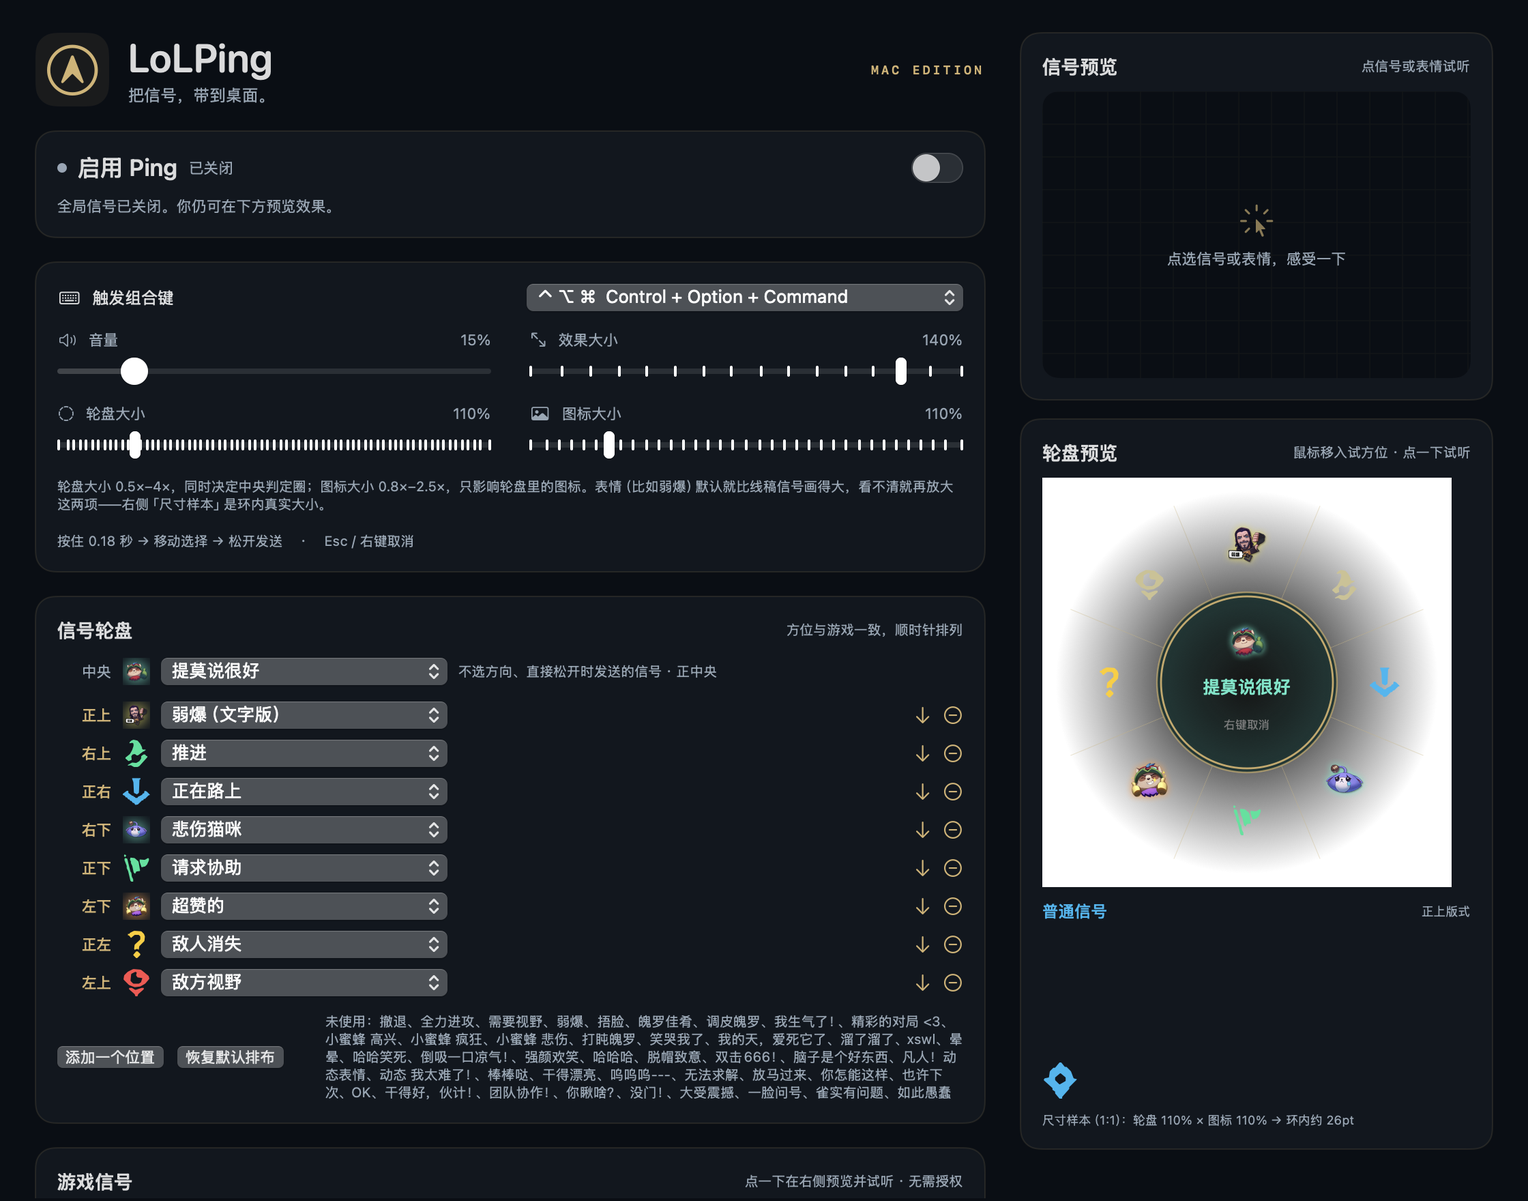
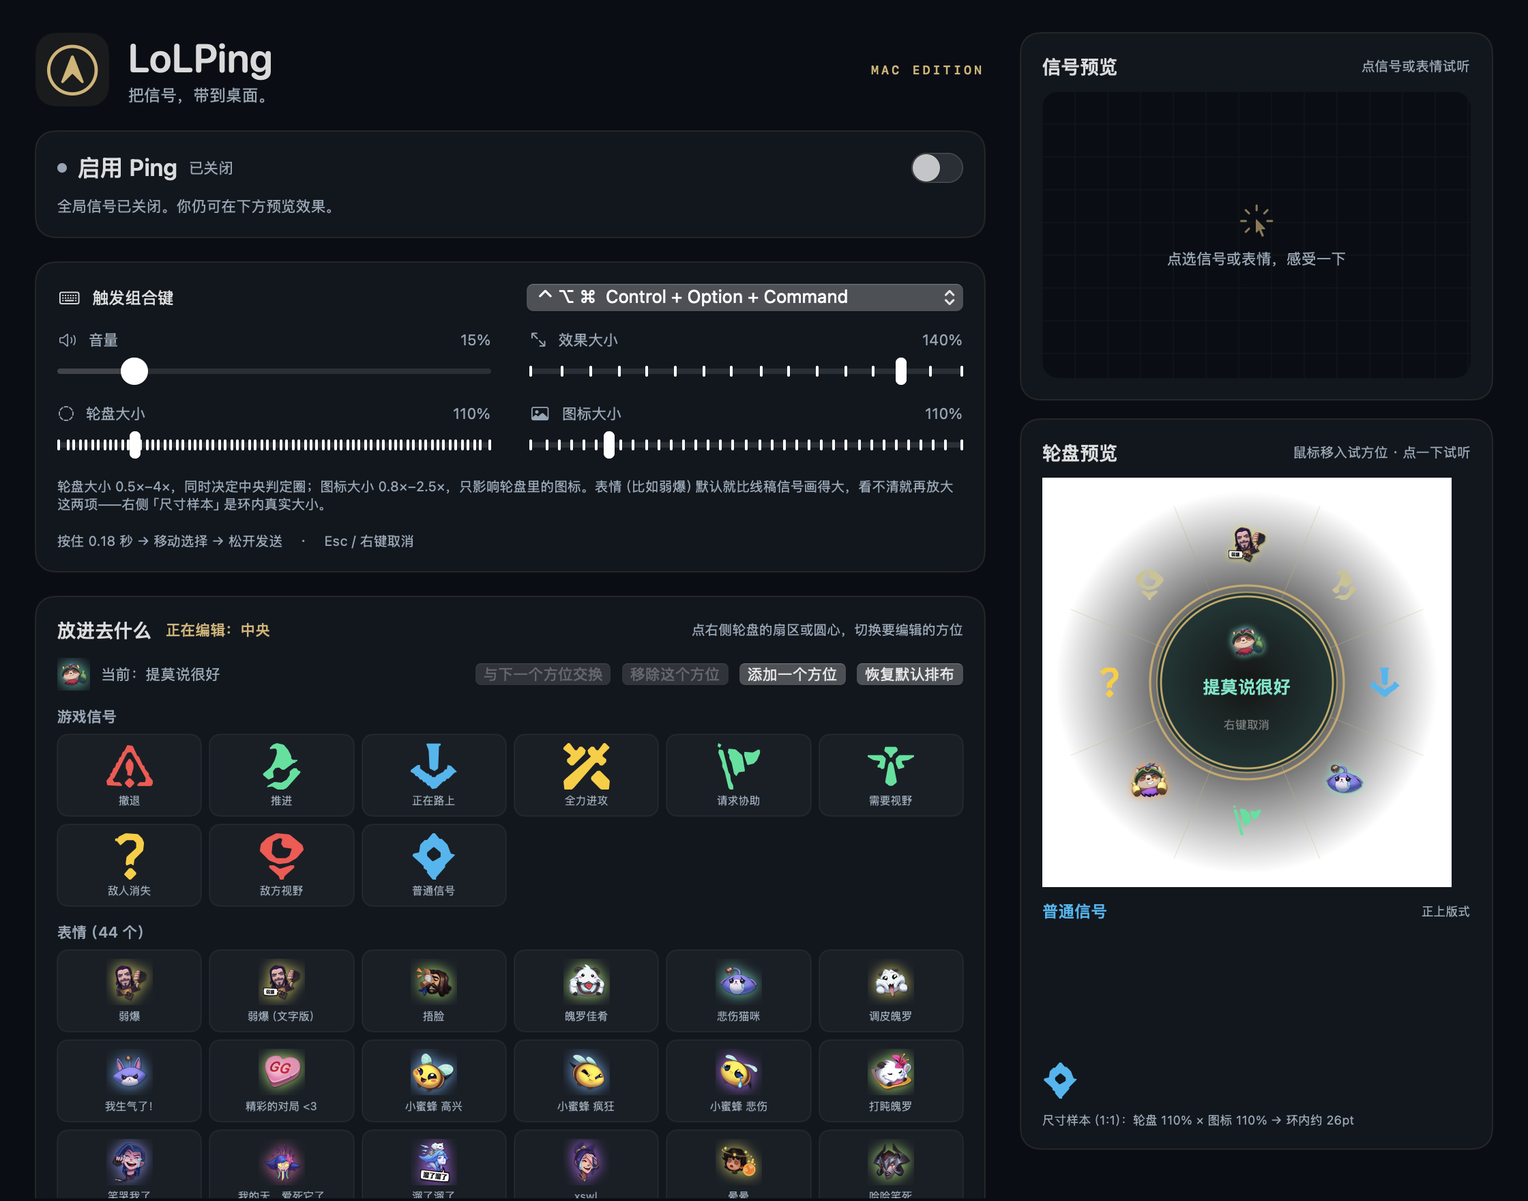
Make ring editing an explicit mode, with in-app guidance
- view mode is the default: clicking a signal, an emote or a wheel slot only
  auditions (animation + sound) and never writes the configuration
- '自定义轮盘' enters edit mode (title, gold hints, per-slot actions, focused tile
  border, gold halo on the ring); '结束编辑' leaves it
- a permanent 怎么用 card explains trigger, auditioning and how to enter/exit edit
- visual check snapshots both modes (settings-window-retina.png and
  settings-window-editing-retina.png) so the difference is reviewable

diff --git a/Sources/LoLPing/ControlView.swift b/Sources/LoLPing/ControlView.swift
@@ -11,14 +11,24 @@ private enum Palette {
 
 struct ControlView: View {
     @ObservedObject var model: AppModel
+    /// Only the offscreen self-check passes anything else; the app always opens in
+    /// view mode, where clicks audition instead of editing.
+    init(model: AppModel, startEditing: Bool = false) {
+        self.model = model
+        _isEditing = State(initialValue: startEditing)
+    }
     @State private var pointed: PingKind = .generic
-    @State private var editing: WheelEditTarget = .hub
+    /// Editing is opt-in: outside it, clicking only previews, never rewrites the
+    /// ring, so browsing signals can never change the configuration by accident.
+    @State private var isEditing = false
+    @State private var editTarget: WheelEditTarget = .hub
     var body: some View {
         HStack(alignment: .top, spacing: 0) {
             ScrollView {
                 VStack(alignment: .leading, spacing: 18) {
                     header
                     statusCard
+                    guideCard
                     settingsCard
                     paletteCard
                     footer
@@ -78,12 +88,13 @@ struct ControlView: View {
             HStack {
                 Text("轮盘预览").font(.system(size: 14, weight: .semibold))
                 Spacer()
-                Text("鼠标移入试方位 · 点一下试听").font(.system(size: 10)).foregroundStyle(Palette.secondary)
+                Text(isEditing ? "点扇区或圆心 = 选中要编辑的位置" : "点一下只试听 · 不改配置")
+                    .font(.system(size: 10)).foregroundStyle(isEditing ? Palette.gold : Palette.secondary)
             }
-            WheelPreview(order: model.wheelOrder, centreSignal: model.centreSignal, focus: editing) { target in
-                editing = target
-                model.preview(target == .hub ? model.centreSignal
-                                             : (model.wheelOrder.indices.contains(target.ringIndex) ? model.wheelOrder[target.ringIndex] : model.centreSignal))
+            WheelPreview(order: model.wheelOrder, centreSignal: model.centreSignal,
+                         focus: isEditing ? editTarget : nil) { target in
+                if isEditing { editTarget = target }
+                model.preview(signal(at: target))
             } onHover: { kind in
                 pointed = kind
             }
@@ -125,6 +136,17 @@ struct ControlView: View {
             Text("MAC EDITION").font(.system(size: 9, weight: .semibold, design: .monospaced))
                 .tracking(2).foregroundStyle(Palette.gold)
         }
+    }
+    private var guideCard: some View {
+        VStack(alignment: .leading, spacing: 6) {
+            Text("怎么用").font(.system(size: 12, weight: .semibold)).foregroundStyle(Palette.gold)
+            Text("1 · 按住 \(model.chord.symbols) 约 0.18 秒 → 移动鼠标选信号 → 松开任意一键发送（不选方向、直接松开就是「中央」那个信号）。")
+            Text("2 · 左边点任意信号或表情 = 试听并看落点动画，**不会**改动配置。右边圆盘也可以点，同样是试听。")
+            Text("3 · 想改轮盘排布：点「自定义轮盘」→ 点右边圆盘的方位（或圆心）→ 点左边格子放入 → 点「结束编辑」。")
+        }
+        .font(.system(size: 10)).foregroundStyle(Palette.secondary)
+        .fixedSize(horizontal: false, vertical: true)
+        .padding(14).card()
     }
     private var statusCard: some View {
         VStack(alignment: .leading, spacing: 10) {
@@ -209,88 +231,111 @@ struct ControlView: View {
     private var paletteCard: some View {
         VStack(alignment: .leading, spacing: 12) {
             HStack(spacing: 10) {
-                Text("放进去什么").font(.system(size: 14, weight: .semibold))
-                Text("正在编辑：\(focusedName)").font(.system(size: 11, weight: .medium)).foregroundStyle(Palette.gold)
-                Spacer()
-                Text("点右侧轮盘的扇区或圆心，切换要编辑的方位").font(.system(size: 10)).foregroundStyle(Palette.secondary)
-            }
-            HStack(spacing: 8) {
-                if let icon = Assets.icon(focusedSignal) {
-                    Image(nsImage: icon).resizable().interpolation(.high).frame(width: 24, height: 24)
+                Text(isEditing ? "自定义轮盘" : "试听信号与表情").font(.system(size: 14, weight: .semibold))
+                if isEditing {
+                    Text("正在编辑：\(focusedName)").font(.system(size: 11, weight: .medium)).foregroundStyle(Palette.gold)
                 }
-                Text("当前：\(focusedSignal.title)").font(.system(size: 11)).foregroundStyle(Palette.secondary)
                 Spacer()
-                Button("与下一个方位交换") { swapFocusedForward() }
-                    .buttonStyle(.bordered).controlSize(.small).disabled(editing == .hub)
-                Button("移除这个方位") { removeFocused() }
-                    .buttonStyle(.bordered).controlSize(.small)
-                    .disabled(editing == .hub || model.wheelOrder.count <= AppModel.minWheelSlots)
-                Button("添加一个方位") { model.addWheelSlot() }
-                    .buttonStyle(.bordered).controlSize(.small).disabled(model.unusedSignals.isEmpty)
-                Button("恢复默认排布") { model.resetWheelOrder() }.buttonStyle(.bordered).controlSize(.small)
+                if isEditing {
+                    Button("结束编辑") { isEditing = false }
+                        .buttonStyle(.borderedProminent).controlSize(.small)
+                        .help("退出编辑：之后点击只试听，不再改动配置")
+                    Button("恢复默认排布") { model.resetWheelOrder() }.buttonStyle(.bordered).controlSize(.small)
+                } else {
+                    Button {
+                        isEditing = true
+                    } label: {
+                        Label("自定义轮盘", systemImage: "slider.horizontal.3")
+                    }
+                    .buttonStyle(.borderedProminent).controlSize(.small)
+                    .help("进入编辑：点方位选位置，点格子放入信号或表情")
+                }
+            }
+            if isEditing {
+                HStack(spacing: 8) {
+                    if let icon = Assets.icon(focusedSignal) {
+                        Image(nsImage: icon).resizable().interpolation(.high).frame(width: 22, height: 22)
+                    }
+                    Text("\(focusedName) 当前：\(focusedSignal.title)").font(.system(size: 11)).foregroundStyle(Palette.secondary)
+                    Spacer(minLength: 0)
+                    Button("与下一个方位交换") { swapFocusedForward() }
+                        .buttonStyle(.bordered).controlSize(.small).disabled(editTarget == .hub)
+                    Button("移除这个方位") { removeFocused() }
+                        .buttonStyle(.bordered).controlSize(.small)
+                        .disabled(editTarget == .hub || model.wheelOrder.count <= AppModel.minWheelSlots)
+                    Button("添加一个方位") { model.addWheelSlot() }
+                        .buttonStyle(.bordered).controlSize(.small).disabled(model.unusedSignals.isEmpty)
+                }
+                Text("编辑中：点右边圆盘的扇区或圆心切换位置，再点下面的格子放入；点「结束编辑」收工。")
+                    .font(.system(size: 10)).foregroundStyle(Palette.gold.opacity(0.85))
+            } else {
+                Text("下面是全部 \(PingKind.ring.count) 个可选信号：点一下只试听（放动画 + 出声），不会改动配置。要改轮盘排布请点右上角「自定义轮盘」。")
+                    .font(.system(size: 10)).foregroundStyle(Palette.secondary)
             }
             tileRow("游戏信号", kinds: PingKind.alerts + [PingKind.generic])
             tileRow("表情（\(PingKind.emotes.count) 个）", kinds: PingKind.emotes)
-            Text("共 \(model.wheelOrder.count) 个方位（最少 \(AppModel.minWheelSlots) 个）· 缩略图就是放进去的样子，点一下即放入并试听")
-                .font(.system(size: 10)).foregroundStyle(Palette.secondary)
         }.padding(16).card()
     }
 
+    /// Only while editing does a tile show "this is what the focused slot holds".
+    private func highlighted(_ kind: PingKind) -> Bool { isEditing && kind == focusedSignal }
     private func tileRow(_ title: String, kinds: [PingKind]) -> some View {
         VStack(alignment: .leading, spacing: 6) {
             Text(title).font(.system(size: 11, weight: .semibold)).foregroundStyle(Palette.secondary)
             LazyVGrid(columns: Array(repeating: GridItem(.flexible(), spacing: 6), count: 6), spacing: 6) {
                 ForEach(kinds) { kind in
-                    Button { assign(kind) } label: {
+                    Button { choose(kind) } label: {
                         VStack(spacing: 3) {
                             if let icon = Assets.icon(kind) {
                                 Image(nsImage: icon).resizable().interpolation(.high).frame(width: 34, height: 34)
                             }
                             Text(kind.title).font(.system(size: 8)).lineLimit(1)
-                                .foregroundStyle(kind == focusedSignal ? Palette.gold : Palette.secondary)
+                                .foregroundStyle(highlighted(kind) ? Palette.gold : Palette.secondary)
                         }
                         .frame(maxWidth: .infinity).frame(height: 60)
-                        .background(kind == focusedSignal ? Palette.gold.opacity(0.16) : Color.white.opacity(0.035),
+                        .background(highlighted(kind) ? Palette.gold.opacity(0.16) : Color.white.opacity(0.035),
                                     in: RoundedRectangle(cornerRadius: 8))
-                        .overlay(RoundedRectangle(cornerRadius: 8).stroke(kind == focusedSignal ? Palette.gold.opacity(0.7) : Color.white.opacity(0.05), lineWidth: 1))
+                        .overlay(RoundedRectangle(cornerRadius: 8).stroke(highlighted(kind) ? Palette.gold.opacity(0.7) : Color.white.opacity(0.05), lineWidth: 1))
                         .contentShape(Rectangle())
                     }
                     .buttonStyle(.plain)
                     .help(kind.title)
-                    .accessibilityLabel("把\(kind.title)放入\(focusedName)")
+                    .accessibilityLabel(isEditing ? "把\(kind.title)放入\(focusedName)" : "试听\(kind.title)")
                 }
             }
         }
     }
 
     private var focusedName: String {
-        switch editing {
+        switch editTarget {
         case .hub: return "中央"
         case .ring(let index): return compassLabel(index)
         }
     }
-    private var focusedSignal: PingKind {
-        switch editing {
+    private var focusedSignal: PingKind { signal(at: editTarget) }
+    private func signal(at target: WheelEditTarget) -> PingKind {
+        switch target {
         case .hub: return model.centreSignal
         case .ring(let index): return model.wheelOrder.indices.contains(index) ? model.wheelOrder[index] : model.centreSignal
         }
     }
-    /// Putting a signal somewhere and hearing it are the same click.
-    private func assign(_ kind: PingKind) {
-        switch editing {
+    /// Outside edit mode a click is only an audition; inside it also writes.
+    private func choose(_ kind: PingKind) {
+        guard isEditing else { model.preview(kind); return }
+        switch editTarget {
         case .hub: model.centreSignal = kind
         case .ring(let index): model.setWheelSlot(index, to: kind)
         }
         model.preview(kind)
     }
     private func swapFocusedForward() {
-        guard case .ring(let index) = editing else { return }
+        guard case .ring(let index) = editTarget else { return }
         model.rotateWheelSlot(index, by: 1)
     }
     private func removeFocused() {
-        guard case .ring(let index) = editing else { return }
+        guard case .ring(let index) = editTarget else { return }
         model.removeWheelSlot(at: index)
-        editing = .hub
+        editTarget = .hub
     }
     private var footer: some View {
         VStack(alignment: .leading, spacing: 10) {

diff --git a/Sources/LoLPing/VisualChecks.swift b/Sources/LoLPing/VisualChecks.swift
@@ -100,15 +100,20 @@ enum VisualChecks {
             }
         }
         try save(settings, to: directory.appendingPathComponent("wheel-large-retina.png"))
-        try settingsWindow(to: directory.appendingPathComponent("settings-window-retina.png"))
+        try settingsWindow(to: directory.appendingPathComponent("settings-window-retina.png"), editing: false)
+        try settingsWindow(to: directory.appendingPathComponent("settings-window-editing-retina.png"), editing: true)
         try movie(to: directory.appendingPathComponent("LoLPing-effects-demo.mov"))
         print("Visual snapshots and renderer demo saved: \(directory.path)")
     }
     /// Snapshots the real settings window offscreen, so the layout that ships can be
     /// reviewed without a screen recording permission or a second machine.
     private static func settingsWindow(to url: URL) throws {
+        try settingsWindow(to: url, editing: false)
+    }
+    /// Also snapshots the editing mode, which is otherwise only reachable by a click.
+    private static func settingsWindow(to url: URL, editing: Bool) throws {
         let size = CGSize(width: 1120, height: 880)
-        let hosting = NSHostingView(rootView: ControlView(model: AppModel()))
+        let hosting = NSHostingView(rootView: ControlView(model: AppModel(), startEditing: editing))
         hosting.frame = CGRect(origin: .zero, size: size)
         hosting.appearance = NSAppearance(named: .darkAqua)
         let window = NSWindow(contentRect: CGRect(origin: .zero, size: size),

diff --git a/VERIFICATION.md b/VERIFICATION.md
@@ -1,15 +1,18 @@
-# LoLPing 1.7 验证记录
+# LoLPing 1.8 验证记录
 
 日期：2026-10-12。环境：Apple Silicon，macOS 26.6.2，Swift 6（Command Line Tools）。
 
-本轮改动：设置页的「信号轮盘」由「一行行下拉框 + 未使用文本长列表」改为**图形化编辑**——点轮盘扇区/圆心选中方位（金边高亮），再从图片格子里点选信号或表情放入，格子显示的就是信号本身的样子。
+本轮改动：编辑改为**显式模式**——默认状态下点信号/表情只试听、绝不改配置；改排布要先点「自定义轮盘」进入编辑态，改完点「结束编辑」退出。顶部新增常驻「怎么用」三步引导。
 
 ## 已验证
 
-- Release 构建成功，`dist/LoLPing.app` 版本 1.7.0（构建 8）；`codesign --verify --deep --strict` 通过；`--check-assets` 报告 53 个图标与 53 个音效全部解码成功。
-- 手势与几何测试 **19 个场景、160 个断言**全部通过。新增「方位索引与判定一致」：同一批坐标下 `slotIndex` 返回的槽位与 `selection` 返回的信号严格对应，圆心区域返回 `nil`（中央），空轮盘返回 `nil`；设置页选方位与全局手势发信号现在共用这一份判定。
-- **设置窗口离屏截图**（`Verification/Visuals/settings-window-retina.png`）人工核对新版：左栏为「放进去什么 / 正在编辑：中央 / 当前：提莫说很好」+ 两片图片格子（游戏信号、表情 44 个），旧的逐行下拉框与「未使用：…」文本长列表已消失，无重叠溢出；右栏为 信号预览 / 轮盘预览 / 尺寸样本（1:1），圆盘中央带金边表示正在编辑中央，每个方位都有图标图像。
-- 渲染自检（10 种状态的动画像素比较 30 项）、尺寸对照图、以及「从 DMG 安装 → 启动 → 素材自检」流程此前均已验证。
+- Release 构建成功，`dist/LoLPing.app` 版本 1.8.0（构建 9）；`codesign --verify --deep --strict` 通过；`--check-assets` 报告 53 个图标与 53 个音效全部解码成功。
+- 手势与几何测试 **19 个场景、160 个断言**全部通过（选方位与全局手势共用 `WheelGeometry.slotIndex` / `selection`，两者一一对应，圆心返回 `nil`）。
+- **两种模式的离屏截图**（`Verification/Visuals/settings-window-retina.png` 与 `settings-window-editing-retina.png`）人工核对：
+  - 非编辑态：卡片标题「试听信号与表情」，写明「点一下只试听（放动画 + 出声），不会改动配置。要改轮盘排布请点右上角「自定义轮盘」」，且**没有任何格子被高亮**；
+  - 编辑态：标题变「自定义轮盘」+「正在编辑：中央」，「结束编辑」为主按钮，出现金色编辑提示与「与下一个方位交换 / 移除这个方位 / 添加一个方位 / 恢复默认排布」，当前方位占用的格子带金边；右侧轮盘中央带金环。两态差别一眼可辨。
+- 顶部「怎么用」卡片：三步分别为触发方式、试听不改配置、如何进入/退出编辑。
+- 渲染自检（10 种状态的动画像素比较 30 项）、尺寸对照图、DMG 安装→启动→素材自检流程此前均已验证。
 
 ## 素材来源
 
@@ -20,7 +23,7 @@
 ## 实测限制
 
 - 本机没有稳定的代码签名证书，每次重新构建都会改变 ad-hoc 签名，macOS 可能要求重新勾选辅助功能授权。
-- 未在本机授予辅助功能权限，**全局组合键的实机触发（真实按住 ⌃⌥⌘ 出轮盘、松开发送）未实测**；已实测的是同一条状态机的单元测试、渲染自检与从 DMG 安装后正常启动。
-- 设置窗口的**交互控件**（点扇区选方位、点格子放入、四个滑块）无法自动化点击验证：终端没有辅助功能权限，AppleScript 读不到窗口控件树。已用离屏截图确认版式，控件调用的判定与写入逻辑有单元测试覆盖；点击手感需人工确认。
-- 表情素材原始分辨率为 128×128：轮盘 400% × 图标 250% 时环内图标约 420pt，会明显看出放大痕迹。参考项目的 320×320 WebP 是逐帧差分烘焙，首帧为空帧，不能当静态图使用。
+- 未在本机授予辅助功能权限，**全局组合键的实机触发未实测**；已实测的是同一条状态机的单元测试、渲染自检与从 DMG 安装后正常启动。
+- 设置窗口的**交互控件**（进出编辑、点扇区选方位、点格子试听/放入、四个滑块）无法自动化点击验证：终端没有辅助功能权限，AppleScript 读不到窗口控件树。已用两种状态的离屏截图确认版式与文案，控件调用的判定与写入逻辑有单元测试覆盖；点击手感需人工确认。
+- 表情素材原始分辨率为 128×128：轮盘 400% × 图标 250% 时环内图标约 420pt，会明显看出放大痕迹。参考项目的 320×320 WebP 为逐帧差分烘焙，首帧为空帧，不能当静态图使用。
 - 外接屏、全屏应用覆盖、系统显示缩放仍未实测。

diff --git a/README.md b/README.md
@@ -31,8 +31,9 @@
 3. 将鼠标放在要标记的位置，按住 **Control + Option + Command** 约 0.18 秒，移动鼠标选择，松开任意一键发送。无需按住鼠标按钮。
 4. 中央是普通蓝色信号；Esc / 右键取消。信号出现在最初呼出的位置。下一次操作前，请完全松开三个修饰键。
 5. 关闭总开关会立刻取消轮盘、停止动画与声音。关闭窗口仍可从菜单栏打开或暂停；「退出软件」彻底退出。
-6. 改轮盘排布不用记序号：**点右侧轮盘上的扇区或圆心**，就切到「正在编辑：正上 / 中央 / 左上…」，被编辑的方位会亮一圈金边；然后在左侧「放进去什么」的**图片格子**里点想要的信号或表情（游戏信号 9 个 + 表情 44 个，格子显示的就是它在轮盘里的样子），点一下即放入并当场试听。中央换成表情同样可行。
-7. 同一张卡片里还有「与下一个方位交换」「移除这个方位」「添加一个方位」「恢复默认排布」（最少 3 个方位，最多把 53 个信号都用上）。
+6. **点一下只试听，不会改配置**：左侧「试听信号与表情」里点任意信号或表情就是放动画 + 出声，右侧圆盘也可以点，同样只试听。
+7. **要改轮盘才进编辑**：点右上角「自定义轮盘」进入编辑态（标题变成「正在编辑：正上 / 中央 / 左上…」，卡片里出现金色提示、当前方位、以及「与下一个方位交换」「移除这个方位」「添加一个方位」「恢复默认排布」），此时点右侧圆盘的扇区或圆心选位置、点左侧格子放入，改完点「结束编辑」。最少 3 个方位，最多把 52 个可选信号都用上。
+8. 窗口顶部有常驻的「怎么用」三步说明（触发方式 / 试听不会改配置 / 怎么进编辑），左侧负责改，右侧固定预览：「信号预览」放落点动画，「轮盘预览」既试听也用来选方位，下面还有 1:1 尺寸样本，拖「轮盘大小 / 图标大小」时实时变化。
 8. 右侧固定不滚动的预览区：「信号预览」放刚点过的信号的落点动画，「轮盘预览」就是上面用来选方位的那个圆盘，下面还有 1:1 的尺寸样本——拖「轮盘大小 / 图标大小」时它实时变化，翻很长的列表时预览也不会跑掉。
 
 首次运行默认关闭。启用状态、组合键、音量和大小自动保存。软件不会添加登录启动项，不联网同步信号，也不采集键盘输入内容。
